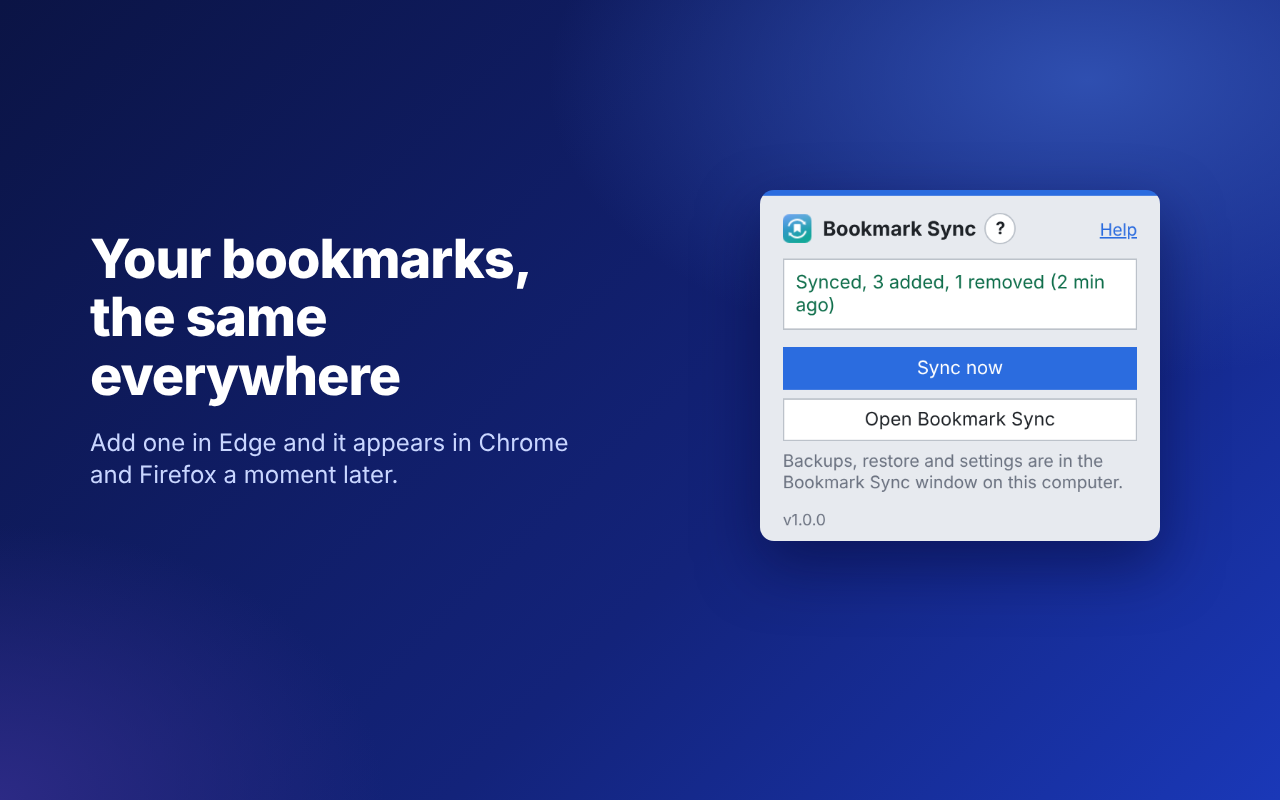
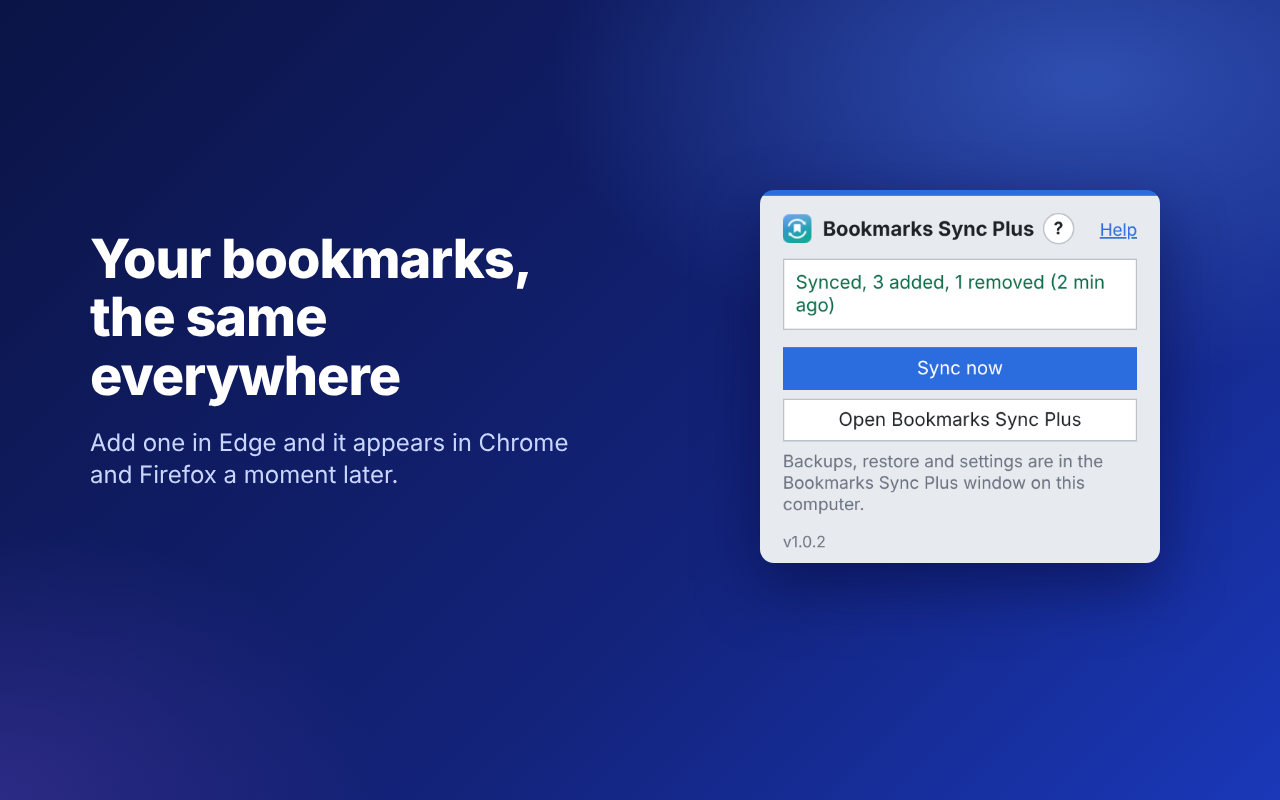
v1.0.2: Renamed to Bookmarks Sync Plus, repo links point to bookmark-sync-plus, old-named shortcuts are cleaned up

diff --git a/tools/make-store-art.js b/tools/make-store-art.js
@@ -17,8 +17,8 @@ const BASE = `<style>*{box-sizing:border-box}body{margin:0;font-family:Inter,sys
 const mock = (status) => `
   const store = { status: ${JSON.stringify(status)} };
   globalThis.chrome = {
-    runtime: { getManifest: () => ({ version: '1.0.1' }), getURL: (p) => p,
-      sendMessage: async () => {}, sendNativeMessage: async () => ({ version: '1.0.1' }) },
+    runtime: { getManifest: () => ({ version: '1.0.2' }), getURL: (p) => p,
+      sendMessage: async () => {}, sendNativeMessage: async () => ({ version: '1.0.2' }) },
     storage: { local: { get: async (k) => ({ status: store.status }) }, onChanged: { addListener() {} } },
   };`;
 
@@ -64,14 +64,14 @@ const card = (uri, w) => `<img src="${uri}" style="width:${w}px;border-radius:14
   await render(browser, `<html><head>${BASE}</head><body style="${BG}width:1400px;height:560px">
     <img src="${iconUri}" style="position:absolute;left:90px;top:70px;width:104px;height:104px;border-radius:24px">
     <div style="position:absolute;left:216px;top:104px;font-size:30px;font-weight:500;color:#c0cdf5">Chrome, Edge and Firefox</div>
-    <div style="position:absolute;left:90px;top:206px;font-size:84px;font-weight:800;line-height:1.02;letter-spacing:-2px">Bookmark<br>Sync</div>
+    <div style="position:absolute;left:90px;top:206px;font-size:78px;font-weight:800;line-height:1.02;letter-spacing:-2px">Bookmarks<br>Sync Plus</div>
     <div style="position:absolute;left:90px;top:398px;font-size:30px;color:#c9d6ff">Keep your bookmarks the same in every browser.</div>
     <div style="position:absolute;left:90px;top:456px">${chips}</div>
     <div style="position:absolute;left:830px;top:70px">${card(popupOk, 420)}</div></body></html>`, 1400, 560, path.join(out, 'promo-marquee-1400x560.png'));
 
   await render(browser, `<html><head>${BASE}</head><body style="${BG}width:440px;height:280px">
     <img src="${iconUri}" style="position:absolute;left:30px;top:34px;width:72px;height:72px;border-radius:17px">
-    <div style="position:absolute;left:30px;top:124px;font-size:44px;font-weight:800;line-height:1.03;letter-spacing:-1px">Bookmark<br>Sync</div>
+    <div style="position:absolute;left:30px;top:124px;font-size:44px;font-weight:800;line-height:1.03;letter-spacing:-1px">Bookmarks<br>Sync Plus</div>
     <div style="position:absolute;left:30px;top:228px;font-size:17px;color:#c9d6ff">Same bookmarks in every browser</div></body></html>`, 440, 280, path.join(out, 'promo-tile-440x280.png'));
 
   await render(browser, `<html><body style="margin:0;background:transparent"><img src="${iconUri}" style="width:512px;height:512px;display:block"></body></html>`, 512, 512, path.join(out, 'icon-512.png'));

diff --git a/extension/src/background.js b/extension/src/background.js
@@ -1,6 +1,6 @@
-// Bookmark Sync background script.
+// Bookmarks Sync Plus background script.
 //
-// Sends this browser's bookmarks to the Bookmark Sync helper on this
+// Sends this browser's bookmarks to the Bookmarks Sync Plus helper on this
 // computer, gets the master list back and changes this browser's bookmarks
 // to match. The browser keeps one connection open to the helper, which
 // watches for changes made by the other browsers and tells this one the
@@ -195,7 +195,7 @@ function connect() {
     else entry.resolve(message);
   });
   opened.onDisconnect.addListener(() => {
-    const reason = api.runtime.lastError?.message ?? 'The connection to Bookmark Sync closed';
+    const reason = api.runtime.lastError?.message ?? 'The connection to Bookmarks Sync Plus closed';
     if (port === opened) port = null;
     for (const [id, entry] of waiting) {
       clearTimeout(entry.timeout);
@@ -225,7 +225,7 @@ function callHost(message) {
     const id = nextId++;
     const timeout = setTimeout(() => {
       waiting.delete(id);
-      reject(new Error('Bookmark Sync did not answer'));
+      reject(new Error('Bookmarks Sync Plus did not answer'));
     }, REQUEST_TIMEOUT_MS);
     waiting.set(id, { resolve, reject, timeout });
     try {
@@ -450,9 +450,9 @@ async function removeEmptyFolders(wantedFolders, stats) {
 function describeError(err) {
   const text = String(err?.message ?? err);
   if (/not found|no such native application|not installed/i.test(text)) {
-    return 'Bookmark Sync is not installed on this computer. Run BookmarkSync.exe once to install it.';
+    return 'Bookmarks Sync Plus is not installed on this computer. Run BookmarkSync.exe once to install it.';
   }
-  return `Bookmark Sync could not sync: ${text}`;
+  return `Bookmarks Sync Plus could not sync: ${text}`;
 }
 
 // Saves the last result for the popup and shows a red ! on failure.
@@ -613,7 +613,7 @@ api.alarms.onAlarm.addListener((alarm) => {
 try {
   connect();
 } catch (err) {
-  console.warn('Bookmark Sync helper not reachable', err);
+  console.warn('Bookmarks Sync Plus helper not reachable', err);
 }
 api.runtime.onStartup.addListener(() => sync(true));
 api.runtime.onInstalled.addListener(() => sync(true));

diff --git a/extension/src/popup.html b/extension/src/popup.html
@@ -2,19 +2,19 @@
 <html lang="en">
 <head>
   <meta charset="utf-8">
-  <title>Bookmark Sync</title>
+  <title>Bookmarks Sync Plus</title>
   <link rel="stylesheet" href="popup.css">
 </head>
 <body>
   <div class="accent"></div>
   <main>
-    <h1><img src="icons/icon32.png" alt=""> Bookmark Sync <button type="button" class="help" id="helpButton" aria-label="Explain this window">?</button> <a id="helpLink" href="https://github.com/MithUK1/bookmark-sync#readme" target="_blank" rel="noopener">Help</a></h1>
+    <h1><img src="icons/icon32.png" alt=""> Bookmarks Sync Plus <button type="button" class="help" id="helpButton" aria-label="Explain this window">?</button> <a id="helpLink" href="https://github.com/MithUK1/bookmark-sync-plus#readme" target="_blank" rel="noopener">Help</a></h1>
     <p id="status" class="status">Checking...</p>
     <div id="helpText" class="help-text" hidden></div>
     <p id="mismatch" class="status bad" hidden></p>
     <button id="sync" class="primary" type="button">Sync now</button>
-    <button id="open" type="button">Open Bookmark Sync</button>
-    <p class="hint">Backups, restore and settings are in the Bookmark Sync window on this computer.</p>
+    <button id="open" type="button">Open Bookmarks Sync Plus</button>
+    <p class="hint">Backups, restore and settings are in the Bookmarks Sync Plus window on this computer.</p>
   </main>
   <footer id="version"></footer>
   <script src="help.js"></script>

diff --git a/tests/reorder.test.js b/tests/reorder.test.js
@@ -24,7 +24,7 @@ const api={bookmarks:{
  onCreated:{addListener(){}},onRemoved:{addListener(){}},onChanged:{addListener(){}},onMoved:{addListener(){}},onImportEnded:{addListener(){}}},
  alarms:{create(){},get:async()=>null,onAlarm:{addListener(){}}},
  storage:{local:{set:async()=>{},get:async()=>({})}},
- windows:{onRemoved:{addListener(){}},create:async()=>({id:1})},action:{},runtime:{getManifest(){return{version:"1.0.1"}},onStartup:{addListener(){}},onInstalled:{addListener(){}},onMessage:{addListener(){}},sendNativeMessage:async()=>{},connectNative(){return{onMessage:{addListener(){}},onDisconnect:{addListener(){}},postMessage(){}}}}};
+ windows:{onRemoved:{addListener(){}},create:async()=>({id:1})},action:{},runtime:{getManifest(){return{version:"1.0.2"}},onStartup:{addListener(){}},onInstalled:{addListener(){}},onMessage:{addListener(){}},sendNativeMessage:async()=>{},connectNative(){return{onMessage:{addListener(){}},onDisconnect:{addListener(){}},postMessage(){}}}}};
 api.runtime.getBrowserInfo=async()=>({});
 const ctx={chrome:api,...(firefox?{browser:api}:{}),navigator:{userAgent:'Chrome'},URL,atob,TextDecoder,console,setTimeout,clearTimeout};
 ctx.globalThis=ctx;vm.createContext(ctx);

diff --git a/extension/src/popup.js b/extension/src/popup.js
@@ -1,5 +1,5 @@
-// Bookmark Sync popup: last sync result, Sync now, and a button that
-// opens the Bookmark Sync window on this computer.
+// Bookmarks Sync Plus popup: last sync result, Sync now, and a button that
+// opens the Bookmarks Sync Plus window on this computer.
 
 const api = globalThis.browser ?? globalThis.chrome;
 const HOST = 'com.muk1.bookmarksync';
@@ -31,7 +31,7 @@ document.getElementById('open').addEventListener('click', async () => {
     window.close();
   } catch {
     const box = document.getElementById('status');
-    box.textContent = 'Bookmark Sync is not installed on this computer. Run BookmarkSync.exe once to install it.';
+    box.textContent = 'Bookmarks Sync Plus is not installed on this computer. Run BookmarkSync.exe once to install it.';
     box.className = 'status bad';
   }
 });

diff --git a/extension/src/help.js b/extension/src/help.js
@@ -4,6 +4,6 @@
 const HELP = [
   ['Status', 'The result of the last sync in this browser. Red means it could not sync; the text says why.'],
   ['Sync now', 'Syncs straight away. Normally you never need it: the program tells each browser the moment another one changes.'],
-  ['Open Bookmark Sync', 'Opens the window on this computer, where backups, restore, the master browser and Settings are.'],
+  ['Open Bookmarks Sync Plus', 'Opens the window on this computer, where backups, restore, the master browser and Settings are.'],
   ['Version', 'The extension and the program share one version number. If they differ, reload the extension on the browser\'s extensions page.'],
 ];

diff --git a/extension/src/dupe.html b/extension/src/dupe.html
@@ -2,7 +2,7 @@
 <html lang="en">
 <head>
   <meta charset="utf-8">
-  <title>Bookmark Sync - already saved</title>
+  <title>Bookmarks Sync Plus - already saved</title>
   <link rel="stylesheet" href="dupe.css">
 </head>
 <body>

diff --git a/app/App/Installer.cs b/app/App/Installer.cs
@@ -250,6 +250,7 @@ namespace BookmarkSync
             }
 
             WriteExtensions(changes);
+            RemoveOldNamedShortcuts(changes);
 
             Config config = Config.Load();
             string exe = Env.InstalledExe;
@@ -264,11 +265,31 @@ namespace BookmarkSync
             if (!RunningInstalledCopy) SetShortcut(Path.GetDirectoryName(SelfPath), SelfPath, "--show", changes);
         }
 
+        /// <summary>The app used to be called Bookmark Sync; its shortcuts would otherwise be left behind next to the new ones.</summary>
+        private static void RemoveOldNamedShortcuts(List<string> changes)
+        {
+            foreach (string folder in new[]
+            {
+                Environment.GetFolderPath(Environment.SpecialFolder.DesktopDirectory),
+                Environment.GetFolderPath(Environment.SpecialFolder.Programs),
+                Environment.GetFolderPath(Environment.SpecialFolder.Startup),
+                Path.GetDirectoryName(SelfPath)
+            })
+            {
+                try
+                {
+                    string old = Path.Combine(folder, "Bookmark Sync.lnk");
+                    if (File.Exists(old)) { File.Delete(old); if (!changes.Contains("shortcuts")) changes.Add("shortcuts"); }
+                }
+                catch (Exception) { }
+            }
+        }
+
         private static string Manifest(bool chromium)
         {
             var d = new Dictionary<string, object>();
             d["name"] = Env.HostName;
-            d["description"] = "Bookmark Sync helper";
+            d["description"] = "Bookmarks Sync Plus helper";
             d["path"] = Env.InstalledExe;
             d["type"] = "stdio";
             if (chromium) d["allowed_origins"] = new List<object> { "chrome-extension://" + Env.ChromiumExtensionId + "/" };
@@ -289,7 +310,7 @@ namespace BookmarkSync
             link.Arguments = arguments;
             link.WorkingDirectory = Path.GetDirectoryName(target);
             link.IconLocation = target + ",0";
-            link.Description = "Open Bookmark Sync";
+            link.Description = "Open Bookmarks Sync Plus";
             link.Save();
             if (!changes.Contains("shortcuts")) changes.Add("shortcuts");
         }
@@ -304,7 +325,7 @@ namespace BookmarkSync
         }
 
         /// <summary>
-        /// Takes Bookmark Sync off this computer: registration, shortcuts, startup entry, and the data
+        /// Takes Bookmarks Sync Plus off this computer: registration, shortcuts, startup entry, and the data
         /// folder (backups included) to the Recycle Bin. The running exe is removed a moment later.
         /// </summary>
         public static void Uninstall()

diff --git a/app/App/SetupForm.cs b/app/App/SetupForm.cs
@@ -25,7 +25,7 @@ namespace BookmarkSync
             Theme.Chrome(this);
 
             Controls.Add(Theme.Heading("Browsers", 16, 20));
-            Controls.Add(Theme.SmallPrint("Each button opens that browser's extensions page. Bookmark Sync keeps its extension files up to date in its own folder.", 16, 44, 468));
+            Controls.Add(Theme.SmallPrint("Each button opens that browser's extensions page. Bookmarks Sync Plus keeps its extension files up to date in its own folder.", 16, 44, 468));
 
             State state = null;
             try { state = State.Load(); } catch (Exception) { }
@@ -35,8 +35,8 @@ namespace BookmarkSync
 
             Controls.Add(Theme.Heading("Steps", 16, 222));
             Controls.Add(Theme.SmallPrint(
-                "Chrome and Edge: the folder path is copied for you. On the page that opens, turn on Developer mode, choose Load unpacked, paste the path and pick the folder. After a Bookmark Sync update, press Reload on the extension.\r\n\r\n" +
-                "Firefox: put the signed Bookmark Sync .xpi file in the Bookmark Sync folder (Open folder) or next to the program, then press the button and accept the prompt. Without a signed file, Firefox only allows a temporary add-on: choose Load Temporary Add-on and pick manifest.json in the copied folder.",
+                "Chrome and Edge: the folder path is copied for you. On the page that opens, turn on Developer mode, choose Load unpacked, paste the path and pick the folder. After a Bookmarks Sync Plus update, press Reload on the extension.\r\n\r\n" +
+                "Firefox: put the signed Bookmarks Sync Plus .xpi file in the Bookmarks Sync Plus folder (Open folder) or next to the program, then press the button and accept the prompt. Without a signed file, Firefox only allows a temporary add-on: choose Load Temporary Add-on and pick manifest.json in the copied folder.",
                 16, 246, 468, 130));
 
             message.AutoSize = false;

diff --git a/app/App/SettingsForm.cs b/app/App/SettingsForm.cs
@@ -123,7 +123,7 @@ namespace BookmarkSync
             {
                 using (var dialog = new FolderBrowserDialog())
                 {
-                    dialog.Description = "Choose where Bookmark Sync keeps its backups. A cloud-synced folder or a network share works.";
+                    dialog.Description = "Choose where Bookmarks Sync Plus keeps its backups. A cloud-synced folder or a network share works.";
                     dialog.SelectedPath = backupFolder.Text;
                     if (dialog.ShowDialog(this) == DialogResult.OK) backupFolder.Text = dialog.SelectedPath;
                 }
@@ -197,7 +197,7 @@ namespace BookmarkSync
             var remove = Theme.Button("Remove all app data", 140, 240, 160, warning: true);
             remove.Click += (s, e) => RemoveEverything();
             page.Controls.Add(remove);
-            page.Controls.Add(Theme.SmallPrint("Repair rewrites the browser registration and shortcuts. Remove takes Bookmark Sync off this computer.", 12, 276, 380));
+            page.Controls.Add(Theme.SmallPrint("Repair rewrites the browser registration and shortcuts. Remove takes Bookmarks Sync Plus off this computer.", 12, 276, 380));
             return page;
         }
 
@@ -270,7 +270,7 @@ namespace BookmarkSync
 
         private void RemoveEverything()
         {
-            string message = "This takes Bookmark Sync off this computer:\r\n\r\n" +
+            string message = "This takes Bookmarks Sync Plus off this computer:\r\n\r\n" +
                 "- the browsers stop being able to sync (remove the extension yourself)\r\n" +
                 "- the Desktop, Start menu and Startup shortcuts are removed\r\n" +
                 "- the app folder, including backups kept in it, goes to the Recycle Bin\r\n" +

diff --git a/app/Core/Env.cs b/app/Core/Env.cs
@@ -9,10 +9,10 @@ namespace BookmarkSync
     /// <summary>Names, paths and small file helpers shared by every part of the program.</summary>
     public static class Env
     {
-        public const string AppTitle = "Bookmark Sync";
-        public const string AppVersion = "1.0.1";
+        public const string AppTitle = "Bookmarks Sync Plus";
+        public const string AppVersion = "1.0.2";
         /// <summary>The README on GitHub, which is the help for every setting.</summary>
-        public const string HelpUrl = "https://github.com/MithUK1/bookmark-sync#readme";
+        public const string HelpUrl = "https://github.com/MithUK1/bookmark-sync-plus#readme";
         public const string HostName = "com.muk1.bookmarksync";
         public const string ChromiumExtensionId = "kmajebfppgghbdedpfacpckkimnclejj";
         public const string FirefoxExtensionId = "bookmark-sync@muk1";
@@ -174,7 +174,7 @@ namespace BookmarkSync
                     // The last holder exited without letting go. The lock is ours now.
                     held = true;
                 }
-                if (!held) throw new TimeoutException("Bookmark Sync is busy with another browser, try again in a moment.");
+                if (!held) throw new TimeoutException("Bookmarks Sync Plus is busy with another browser, try again in a moment.");
                 try
                 {
                     return action();

diff --git a/app/App/TrayApp.cs b/app/App/TrayApp.cs
@@ -61,7 +61,7 @@ namespace BookmarkSync
             string note = Installer.TakeStartupNote();
             if (note != null)
             {
-                icon.ShowBalloonTip(6000, Env.AppTitle, "Bookmark Sync " + note + ".", ToolTipIcon.Info);
+                icon.ShowBalloonTip(6000, Env.AppTitle, "Bookmarks Sync Plus " + note + ".", ToolTipIcon.Info);
                 showWindow = true;
             }
             if (showWindow) ShowWindow();
@@ -104,7 +104,7 @@ namespace BookmarkSync
         private void BuildMenu()
         {
             menu.Items.Clear();
-            var open = new ToolStripMenuItem("Open Bookmark Sync") { Font = new Font(menu.Font, FontStyle.Bold) };
+            var open = new ToolStripMenuItem("Open Bookmarks Sync Plus") { Font = new Font(menu.Font, FontStyle.Bold) };
             open.Click += (s, e) => ShowWindow();
             menu.Items.Add(open);
             menu.Items.Add(new ToolStripSeparator());
